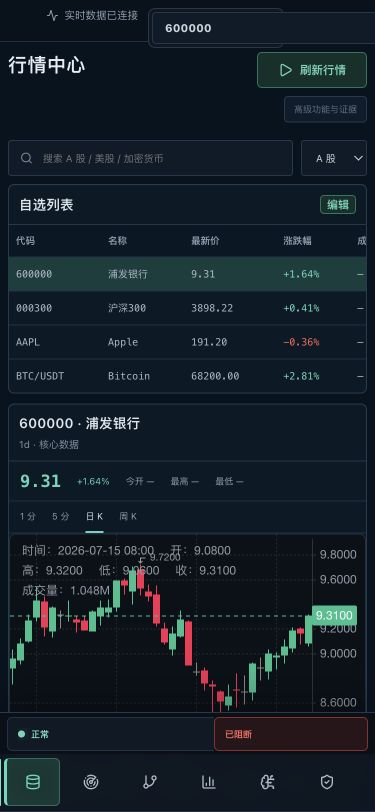
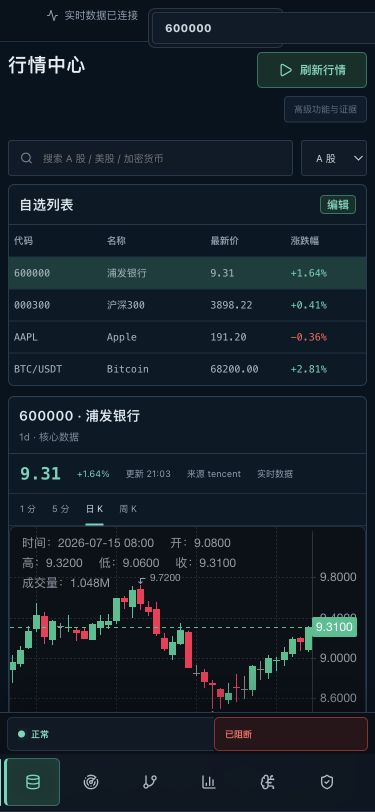
fix: tighten market center layout

diff --git a/apps/web/src/styles.css b/apps/web/src/styles.css
@@ -20745,6 +20745,101 @@ button.ai-review-record {
   white-space: normal;
 }
 
+.design-watchlist-panel .design-panel-body {
+  display: flex;
+  flex-direction: column;
+}
+
+.design-watchlist-panel .design-table {
+  table-layout: fixed;
+}
+
+.design-watchlist-panel .design-table th,
+.design-watchlist-panel .design-table td {
+  overflow: hidden;
+  padding-inline: 5px;
+  text-overflow: ellipsis;
+}
+
+.design-watchlist-panel .design-table th:nth-child(1) {
+  width: 16%;
+}
+
+.design-watchlist-panel .design-table th:nth-child(2) {
+  width: 15%;
+}
+
+.design-watchlist-panel .design-table th:nth-child(3),
+.design-watchlist-panel .design-table th:nth-child(6) {
+  width: 12%;
+}
+
+.design-watchlist-panel .design-table th:nth-child(4) {
+  width: 14%;
+}
+
+.design-watchlist-panel .design-table th:nth-child(5),
+.design-watchlist-panel .design-table th:nth-child(7) {
+  width: 11%;
+}
+
+.design-watchlist-panel .design-table th:nth-child(8) {
+  width: 9%;
+}
+
+.design-watchlist-overview {
+  display: grid;
+  flex: 1;
+  align-content: center;
+  gap: 16px;
+  min-height: 0;
+  border-top: 1px solid #1c3346;
+  padding: 22px;
+  background: rgb(7 20 31 / 24%);
+}
+
+.design-watchlist-overview-head,
+.design-watchlist-overview-foot {
+  display: grid;
+  grid-template-columns: 1fr auto;
+  align-items: center;
+  gap: 8px;
+  color: #879aaa;
+  font-size: 10px;
+}
+
+.design-watchlist-overview-head strong,
+.design-watchlist-overview-foot strong {
+  color: #cbd6df;
+}
+
+.design-watchlist-overview-stats {
+  display: grid;
+  grid-template-columns: repeat(3, minmax(0, 1fr));
+  gap: 8px;
+}
+
+.design-watchlist-overview-stats article {
+  display: grid;
+  gap: 5px;
+  min-height: 68px;
+  border: 1px solid #243b4f;
+  border-radius: 5px;
+  padding: 10px;
+  background: #0b1b29;
+}
+
+.design-watchlist-overview-stats span {
+  color: #8295a6;
+  font-size: 9px;
+}
+
+.design-watchlist-overview-stats strong {
+  color: #dce6ee;
+  font-family: ui-monospace, SFMono-Regular, Menlo, monospace;
+  font-size: 18px;
+}
+
 .terminal-legacy-workspace > summary {
   opacity: 0.72;
   transition: border-color 120ms ease, color 120ms ease, opacity 120ms ease;
@@ -20809,6 +20904,29 @@ button.ai-review-record {
 
   .design-panel-body {
     padding: 9px 10px;
+  }
+
+  .design-watchlist-panel .design-table {
+    min-width: 0;
+  }
+
+  .design-watchlist-panel .design-table th:nth-child(n + 5),
+  .design-watchlist-panel .design-table td:nth-child(n + 5),
+  .design-watchlist-overview {
+    display: none;
+  }
+
+  .design-watchlist-panel .design-table th:nth-child(1) {
+    width: 26%;
+  }
+
+  .design-watchlist-panel .design-table th:nth-child(2) {
+    width: 29%;
+  }
+
+  .design-watchlist-panel .design-table th:nth-child(3),
+  .design-watchlist-panel .design-table th:nth-child(4) {
+    width: 22.5%;
   }
 
   .design-market-chart .design-panel-body {

diff --git a/apps/web/src/components/TerminalWorkspaceSurface.tsx b/apps/web/src/components/TerminalWorkspaceSurface.tsx
@@ -263,6 +263,13 @@ function MarketSurface({
   const sorted = [...workspace.watchlist].sort(
     (left, right) => right.changePct - left.changePct,
   );
+  const advancingCount = workspace.watchlist.filter(
+    (instrument) => instrument.changePct >= 0,
+  ).length;
+  const decliningCount = workspace.watchlist.length - advancingCount;
+  const marketCount = new Set(
+    workspace.watchlist.map((instrument) => instrument.market),
+  ).size;
   const price = workspace.selectedInstrument.price ?? 0;
   const formatQuoteTime = (quoteAsOf: string | null | undefined) =>
     quoteAsOf
@@ -339,6 +346,34 @@ function MarketSurface({
               ))}
             </tbody>
           </table>
+          {workspace.watchlist.length < 8 ? (
+            <div className="design-watchlist-overview">
+              <div className="design-watchlist-overview-head">
+                <span>当前自选概览</span>
+                <strong>{workspace.watchlist.length} 个标的</strong>
+              </div>
+              <div className="design-watchlist-overview-stats">
+                <article>
+                  <span>上涨</span>
+                  <strong className="up">{advancingCount}</strong>
+                </article>
+                <article>
+                  <span>下跌</span>
+                  <strong className="down">{decliningCount}</strong>
+                </article>
+                <article>
+                  <span>覆盖市场</span>
+                  <strong>{marketCount}</strong>
+                </article>
+              </div>
+              <div className="design-watchlist-overview-foot">
+                <span>当前标的</span>
+                <strong>{workspace.selectedInstrument.name}</strong>
+                <span>最近更新</span>
+                <strong>{latestQuoteTime}</strong>
+              </div>
+            </div>
+          ) : null}
         </SurfacePanel>
         <SurfacePanel
           className="design-market-chart"
@@ -351,9 +386,9 @@ function MarketSurface({
               {workspace.selectedInstrument.changePct >= 0 ? "+" : ""}
               {workspace.selectedInstrument.changePct.toFixed(2)}%
             </em>
-            <span>今开 —</span>
-            <span>最高 —</span>
-            <span>最低 —</span>
+            <span>更新 {latestQuoteTime}</span>
+            <span>来源 {workspace.selectedInstrument.quoteSource ?? "本地"}</span>
+            <span>{source === "core" ? "实时数据" : "离线快照"}</span>
           </div>
           <div className="design-market-timeframes">
             {['1 分', '5 分', '日 K', '周 K'].map((label, index) => <span className={index === 2 ? 'active' : ''} key={label}>{label}</span>)}
@@ -412,7 +447,7 @@ function MarketSurface({
         <div className="design-market-bottom">
           {[sorted.slice(0, 5), sorted.slice().reverse().slice(0, 5)].map(
             (rows, groupIndex) => (
-              <SurfacePanel key={groupIndex} title={groupIndex === 0 ? "市场涨幅排行" : "市场跌幅排行"}>
+              <SurfacePanel key={groupIndex} title={groupIndex === 0 ? "自选涨幅排行" : "自选弱势排行"}>
                 <table className="design-table compact" key={groupIndex}>
                   <thead>
                     <tr>
@@ -439,7 +474,7 @@ function MarketSurface({
               </SurfacePanel>
             ),
           )}
-          <SurfacePanel title="最近搜索">
+          <SurfacePanel title="关注标的">
             <table className="design-table compact"><thead><tr><th>名称</th><th>代码</th><th>类型</th></tr></thead><tbody>{workspace.watchlist.slice(0, 5).map((row) => <tr key={row.symbol}><td>{row.name}</td><td>{row.symbol}</td><td>{row.market === "ashare" ? "A 股" : row.market === "us" ? "美股" : "加密货币"}</td></tr>)}</tbody></table>
           </SurfacePanel>
         </div>

diff --git a/apps/web/src/components/TerminalWorkspaceSurface.test.tsx b/apps/web/src/components/TerminalWorkspaceSurface.test.tsx
@@ -74,4 +74,16 @@ describe("TerminalWorkspaceSurface", () => {
     expect(execution).toContain("暂无权威影子候选");
     expect(execution).toContain("不会提交真实订单");
   });
+
+  it("uses the spare watchlist space for a truthful overview", () => {
+    const market = renderToStaticMarkup(
+      <TerminalWorkspaceSurface {...baseProps} activeWorkAreaId="market" />,
+    );
+
+    expect(market).toContain("当前自选概览");
+    expect(market).toContain("4 个标的");
+    expect(market).toContain("覆盖市场");
+    expect(market).toContain("自选弱势排行");
+    expect(market).not.toContain("今开 —");
+  });
 });

diff --git a/docs/product-plan.md b/docs/product-plan.md
@@ -1200,3 +1200,5 @@ P0 完成时必须满足：
 最新更新：九个产品工作区已经完成统一终端 UI 重构。导航按市场研究、决策验证、组合执行、治理系统分组，选定品牌 Logo 同步到 Web 与 Tauri；P0/Golden Path 低频证据改为按需展开，Execution 的 Stage 5/6/7/9 证据改为单一可展开栈，消除共享网格区域导致的互相覆盖。固定底部状态条在所有工作区持续展示数据、模型、Paper Broker、审计和实盘阻断状态；375px 下使用横向图标导航。实现只复用现有 `ProductWorkArea`、store、API、Stage 组件和构建器，没有新增交易模型、券商连接或订单路由，`liveTradingAllowed=false`、`orderSubmissionEnabled=false` 继续保持。
 
 最新更新：统一终端 UI 已完成第二轮逐页收敛。九个工作区不再复用同一套通用三卡布局，而是分别实现与 Figma 对应的行情列表与多指标图表、研究因子与结论、策略参数与版本、回测指标与交易明细、AI 评审与证据、组合配置与风控、执行队列与状态、审计台账与导出、系统设置与连接健康布局。验收使用相同的 1440×1024 视口把九张 Figma 截图与 Docker 页面逐张并排比较，并补充 375×812 单列移动验收；动态列表保留当前 API 的真实行数，不为匹配设计稿伪造业务数据。Web 入口 HTML 禁止缓存、内容 hash 资源使用 immutable 缓存，避免部署后旧入口残留。所有动作继续调用原有回调、store、API 和构建器，实盘与订单提交边界未改变。
+
+最新更新：行情中心完成桌面与 375px 专项细节复审。桌面八列自选表使用固定列宽并保持在面板内；当真实自选不足八条时，下方复用现有自选与报价字段展示上涨、下跌、覆盖市场、当前标的和更新时间概览，不补造行情行。移动端将同一张表投影为代码、名称、最新价和涨跌幅四个核心字段，避免表头和末列裁切；行情摘要只展示现有更新时间、报价来源和实时/离线状态，榜单标题也明确限定为当前自选范围。Docker 复验确认桌面表格溢出 0px、375px 页面无横向溢出；交易安全边界未改变。

diff --git a/design-qa.md b/design-qa.md
@@ -44,5 +44,6 @@
 3. Docker 逐页对照发现首次行情截图过早、回测净值与回撤重叠、组合/执行空状态留白过大、AI 侧栏推高首行；分别延后到真实 K 线完成、拆分回测图层、补充真实空状态与计数、让 AI 侧栏跨两行。
 4. 最终在相同桌面视口重拍九页并生成并排图，同时复核移动宽度和安全边界。
 5. 细节复审再次逐页检查 Docker 截图，统一面板圆角、边框、行高和正文可读性；为回测/组合/执行补充可操作空状态，为设置页长文本表格增加受控换行，并把移动状态栏从四项压缩为两项。
+6. 行情中心专项复审量化发现：四行自选表下方存在 327px 无效空白，八列表格超出面板 9px，375px 页面还会裁断第五列表头。桌面端现用现有自选数据填充概览并把表格收回面板宽度；移动端只投影代码、名称、最新价和涨跌幅四个核心字段。行情摘要改为展示真实更新时间、来源和数据状态，底部榜单也改成与当前自选数据一致的名称。复验结果为桌面表格溢出 0px、移动页面 `clientWidth=375` 且 `scrollWidth=375`。
 
 final result: passed